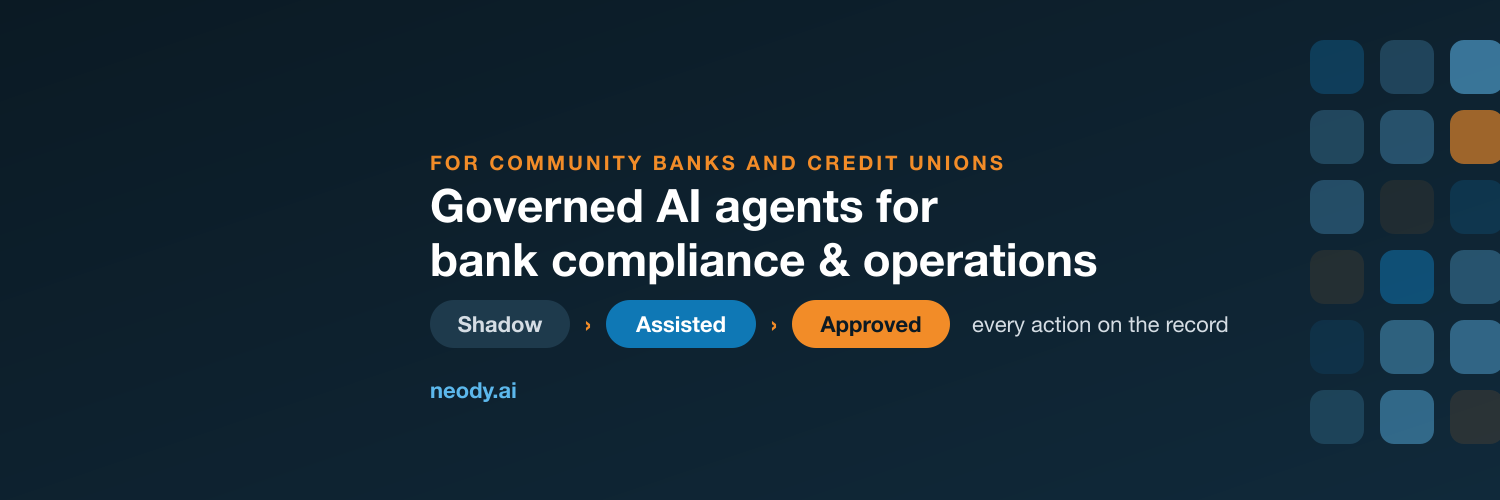
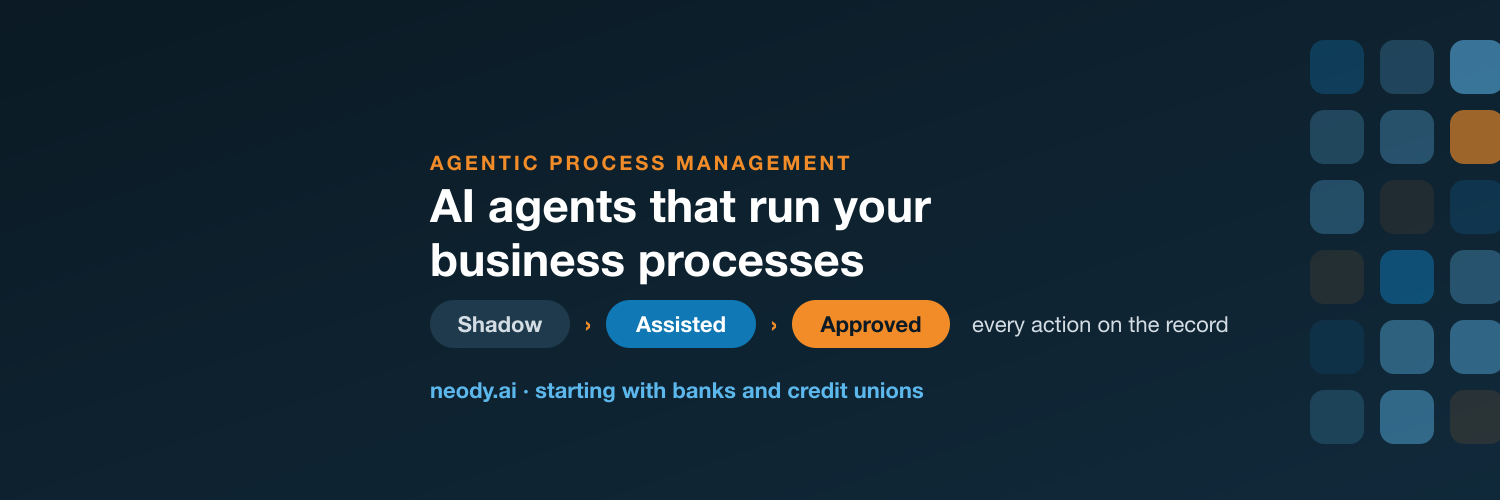
Reposition profile around Agentic Process Management

Changed region(s): [[0.276, 0.3, 0.736, 0.57], [0.3373, 0.75, 0.6133, 0.81]]

diff --git a/profile/README.md b/profile/README.md
@@ -1,12 +1,14 @@
 <p align="center">
-  <img src="header.png" alt="NeodyAI: governed AI agents for bank compliance and operations" width="100%">
+  <img src="header.png" alt="NeodyAI: Agentic Process Management" width="100%">
 </p>
 
 # NeodyAI
 
-**Governed AI agents for bank compliance & operations, with every action on the record.**
+**Agentic Process Management: AI agents run your business processes, with every action governed and on the record.**
 
-Community banks and credit unions carry the same compliance and operations load as the largest banks, with far smaller teams. NeodyAI gives them AI agents that run back-office processes on a path regulators can follow.
+AI agents do the work of a business process. NeodyAI manages the process around them: who owns it, how far the agents may go, and the evidence of everything they did.
+
+We're starting where the bar is highest: **community banks and credit unions**, which carry the same compliance and operations load as the largest banks with far smaller teams. If agents can earn approval from a bank's model-risk team, they can pass any review.
 
 ## How it works
 
